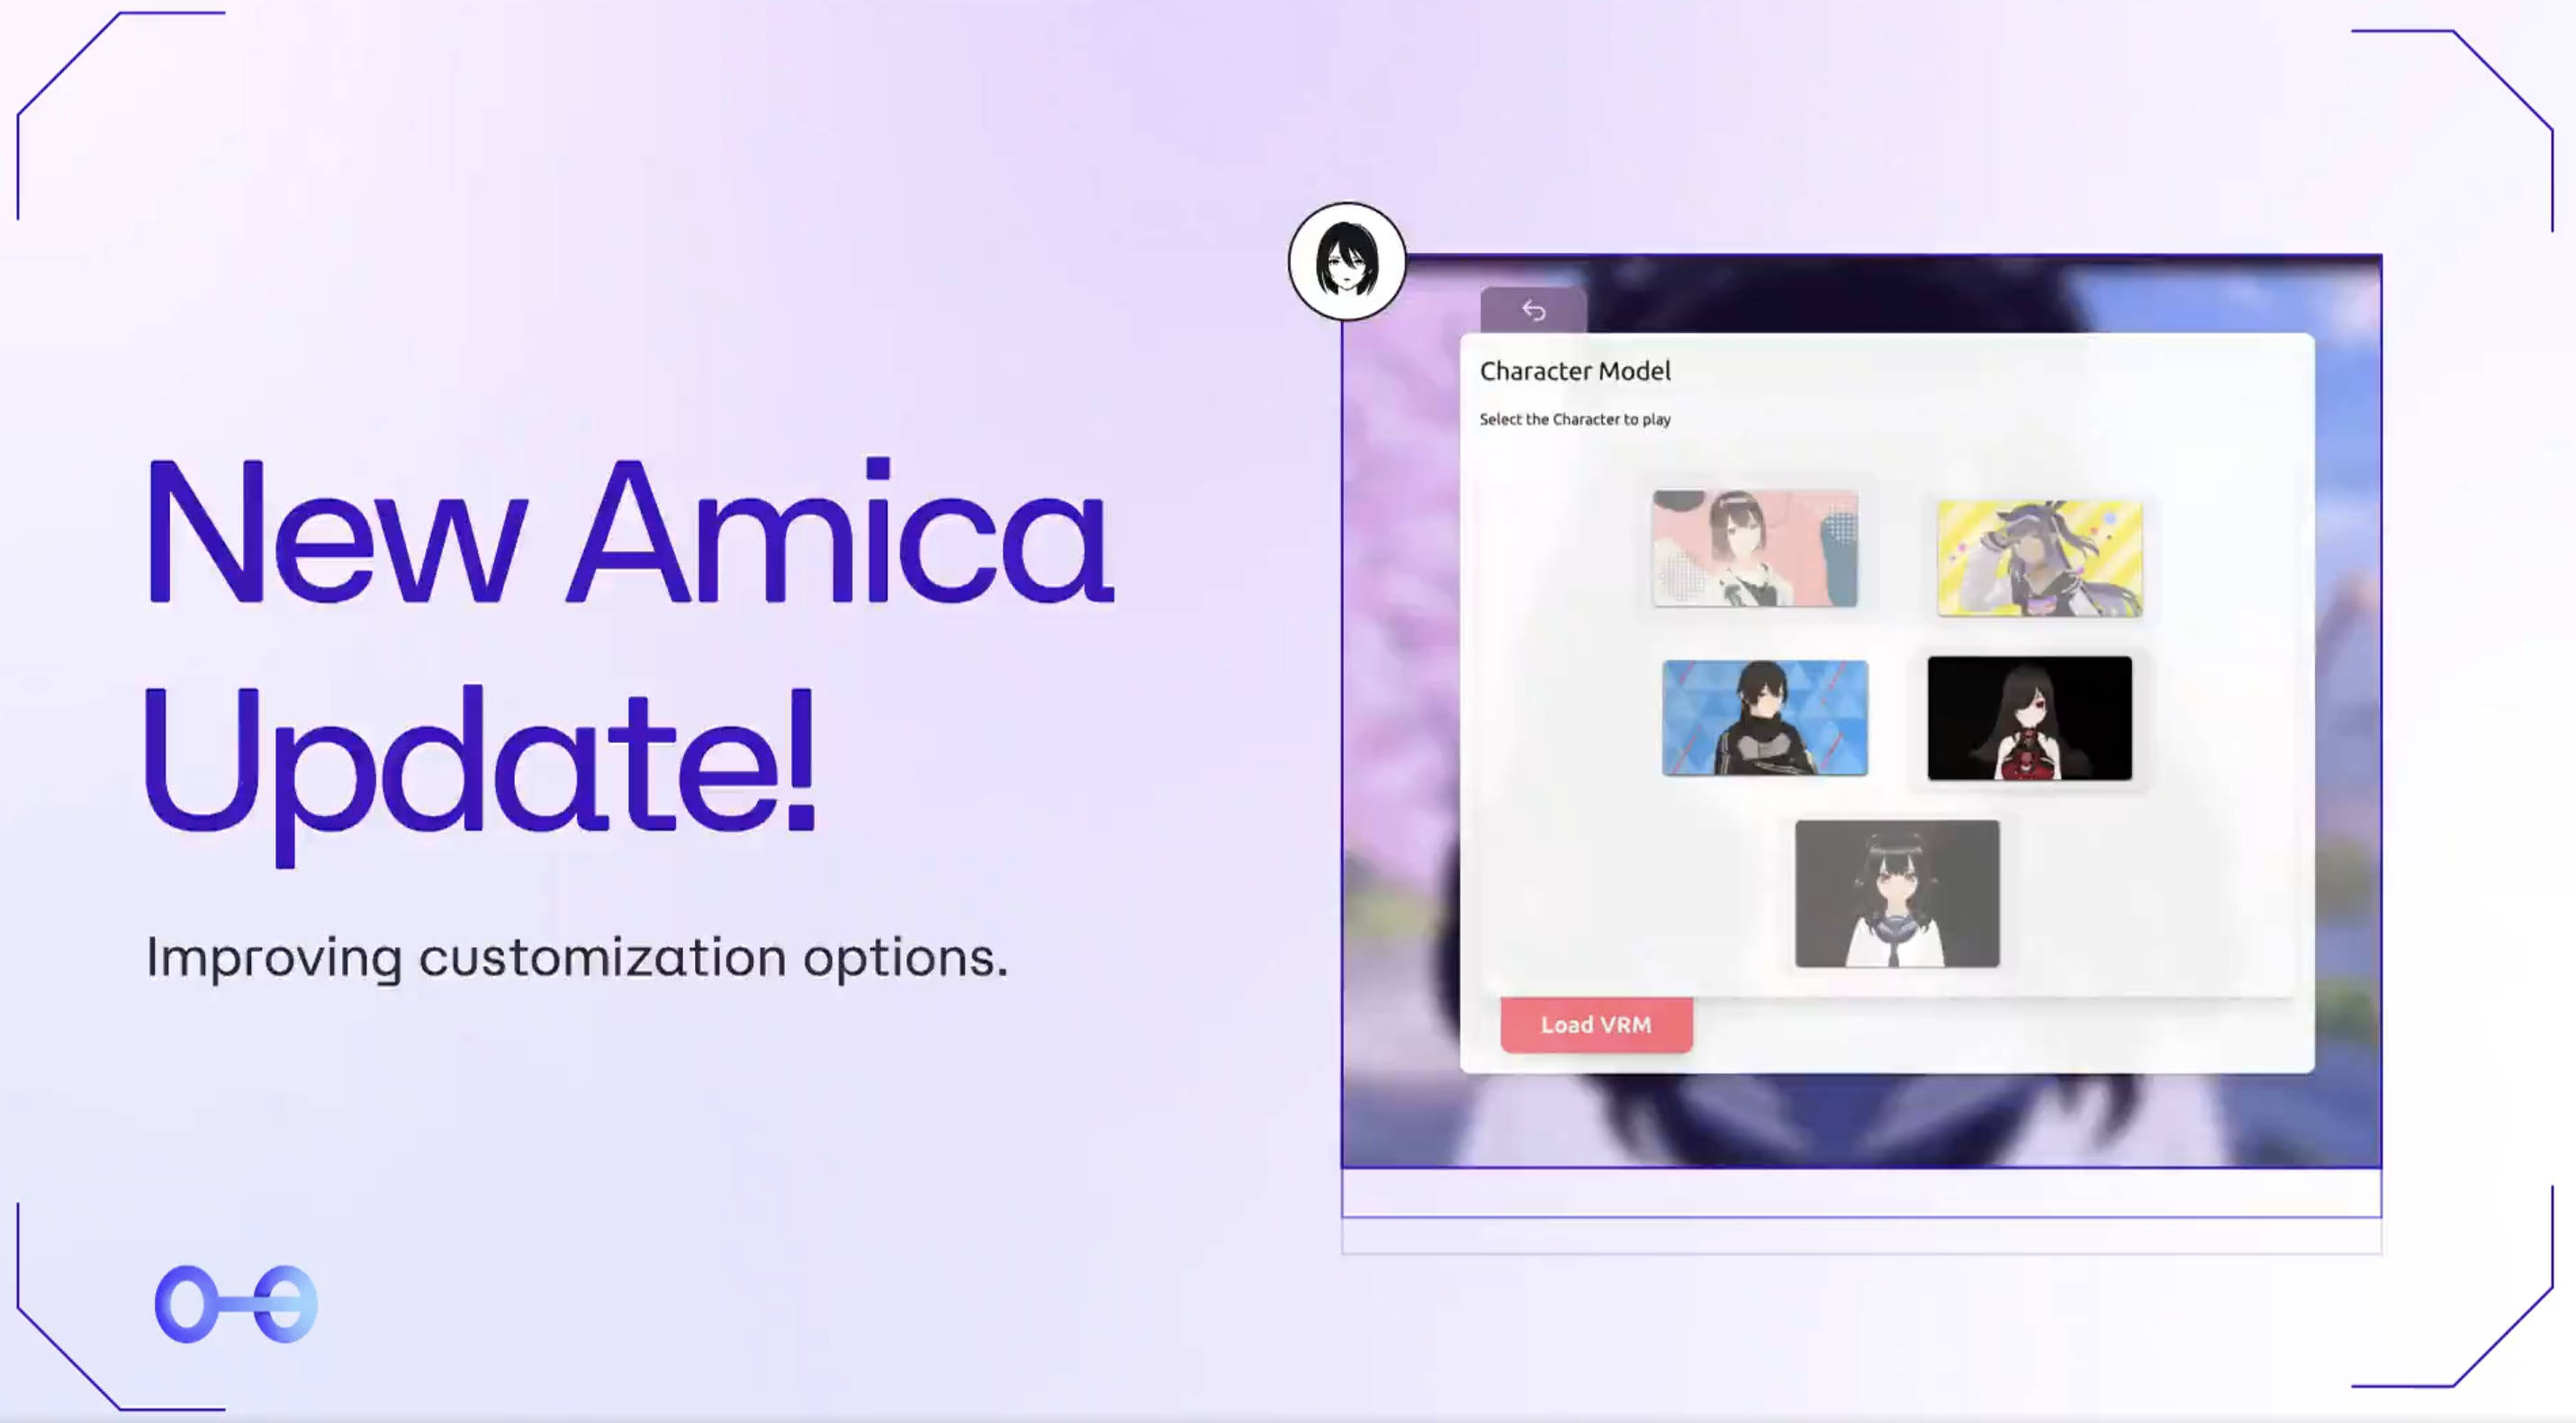
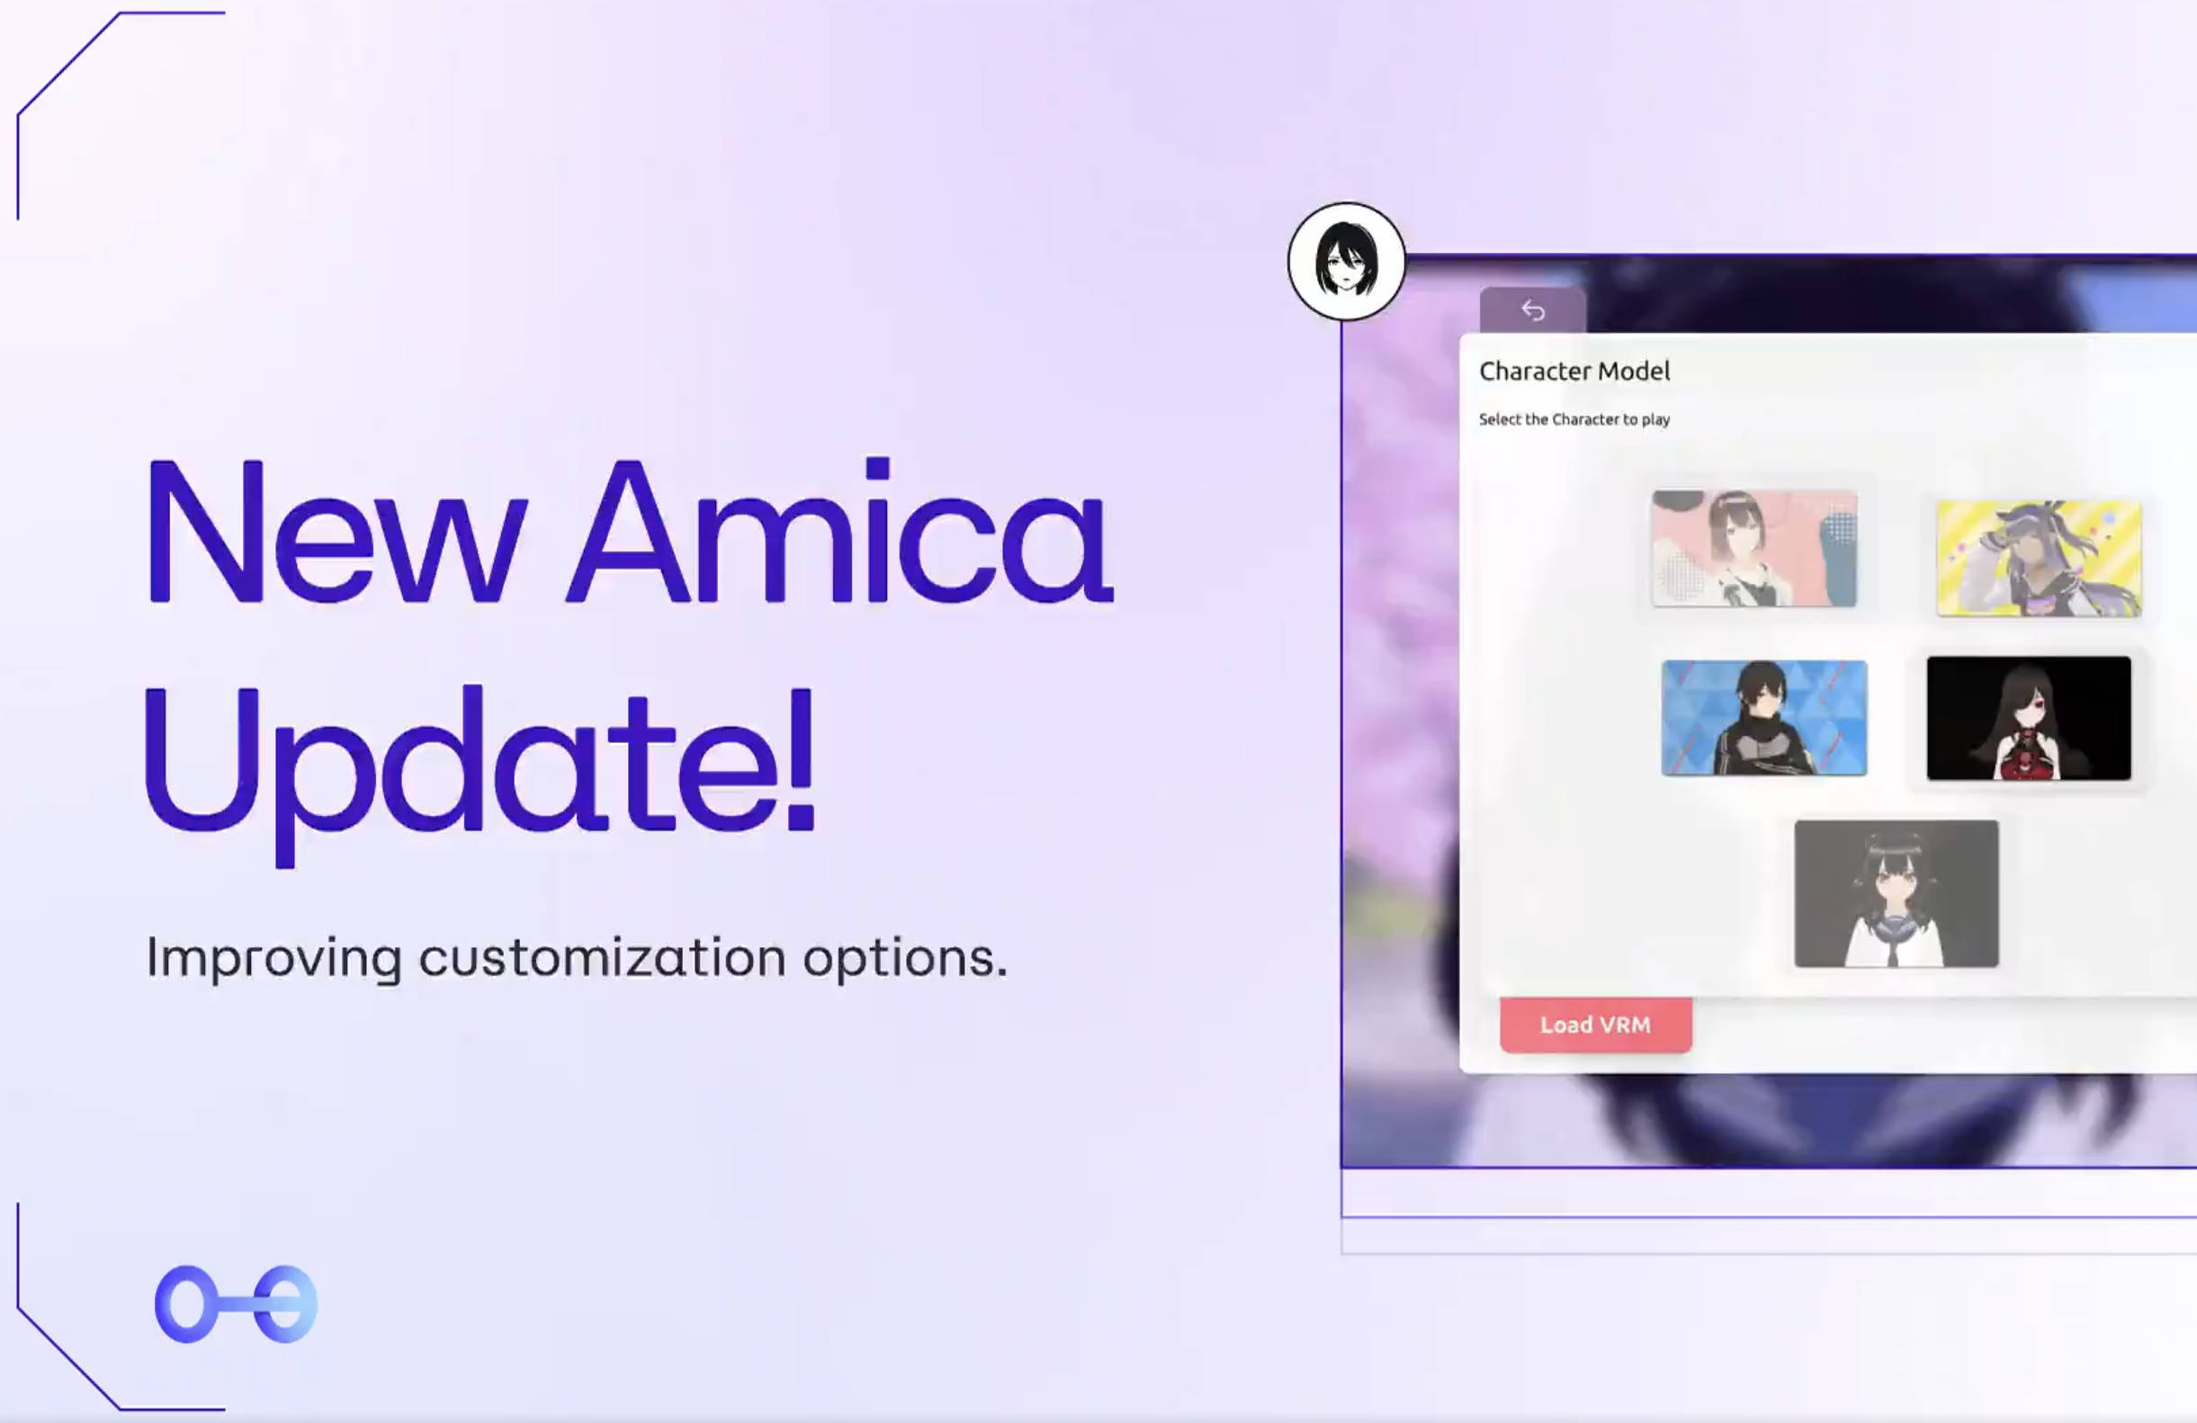
Updated some images to fit into the media box: media page

diff --git a/website/src/app/media/page.jsx b/website/src/app/media/page.jsx
@@ -5,7 +5,7 @@ import { Fade } from 'react-awesome-reveal';
 import Link from 'next/link';
 import arrow from '../assets/images/right_arrow.png'
 import step1 from '../assets/images/staking_upgrade.jpg'
-import step2 from '../assets/images/armica_upgrade.jpg'
+import step2 from '../assets/images/amica_update_2.jpg'
 import step3 from '../assets/images/tokenomics_upgrade.jpg'
 import step4 from '../assets/images/kasumi_upgrade.jpg'
 import step5 from '../assets/images/partnership_update.jpg'
